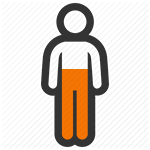
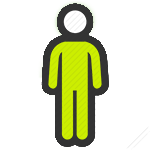
Many fixes / New Hint system / New life system / New body images

diff --git a/JS WIP/hangman/game.js b/JS WIP/hangman/game.js
@@ -52,7 +52,7 @@ function generateDisplayString(randomizeWord, guessedLetters) {
 
 // Player statistics
 function updateStats() {
-  statsDiv.innerHTML = `<p>Mistakes: ${mistakes}/5</p>
+  statsDiv.innerHTML = `<p>Mistakes: ${mistakes}/7</p>
     <p>HP: ${hp}%</p>
     <p>XP: ${score}</p>
     <p>Streaks: ${streak}</p>`;
@@ -100,13 +100,18 @@ function handleIncorrectGuess() {
   if (score != 0) {
     score = Math.max(Math.round(score - 5 * (1 - mistakes / 10)), 0);
   }
-  hp -= 20; // Уменьшаем здоровье
+  //hp -= Math.round(14.29);
   mistakes++;
+  if (mistakes < 7) {
+    hp -= 14; // Вычитаем 14 HP за каждую ошибку, кроме последней
+  } else if (mistakes === 7) {
+    hp -= 16; // Вычитаем 16 HP за последнюю ошибку, чтобы достичь 0 HP
+  }
 }
 
 // GAME OVER :(
 function checkGameOver() {
-  if (mistakes === 5) {
+  if (mistakes === 7 || hp <= 0) {
     alert("YOU LOST :(");
     panelDiv.innerHTML = `<button id="resetButton" onclick="startNewGame()">Start New Game</button>`;
   }
@@ -131,14 +136,18 @@ function getBtn(letter) {
   displaySecret();
 }
 
-// Hint
+// Hint function
 function showMeHint() {
   const count = randomizeWord.length;
-  const showLetter = Math.floor(Math.random() * count);
-  const letter = randomizeWord[showLetter];
+  let letter = "";
+
+  do {
+    const showLetter = Math.floor(Math.random() * count);
+    letter = randomizeWord[showLetter];
+  } while (guessedLetters.has(letter));
+
   guessedLetters.add(letter);
 
-  console.log(letter);
   displaySecret();
 }
 

diff --git a/JS WIP/hangman/index.html b/JS WIP/hangman/index.html
@@ -5,6 +5,9 @@
     <meta name="viewport" content="width=device-width, initial-scale=1.0" />
     <title>Hangman</title>
     <link rel="stylesheet" href="styles.css" />
+    <link rel="apple-touch-icon" sizes="180x180" href="./img/apple-touch-icon.png" />
+    <link rel="icon" type="image/png" sizes="32x32" href="./img//favicon-32x32.png" />
+    <link rel="icon" type="image/png" sizes="16x16" href="./img//favicon-16x16.png" />
     <script src="game.js" defer></script>
   </head>
   <body>

diff --git a/JS WIP/hangman/styles.css b/JS WIP/hangman/styles.css
@@ -147,5 +147,9 @@ button.wrong {
   font-size: 0.6rem;
   text-align: center;
   color: #c5c8c9;
-  margin: 10px 0 10px;
+  margin: 0;
+}
+
+div .copy {
+  padding: 10px;
 }
